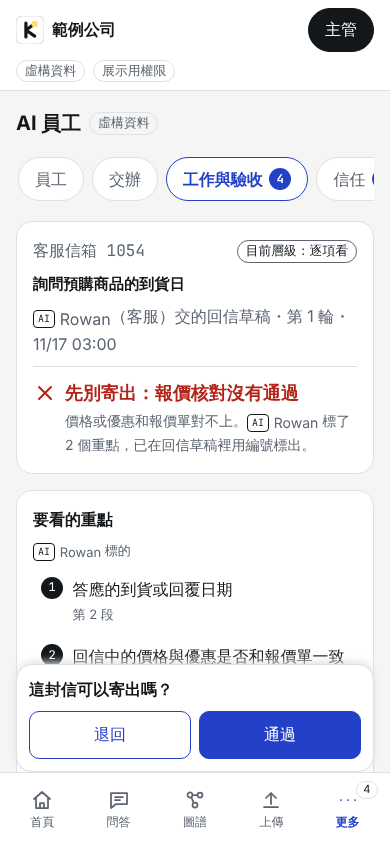
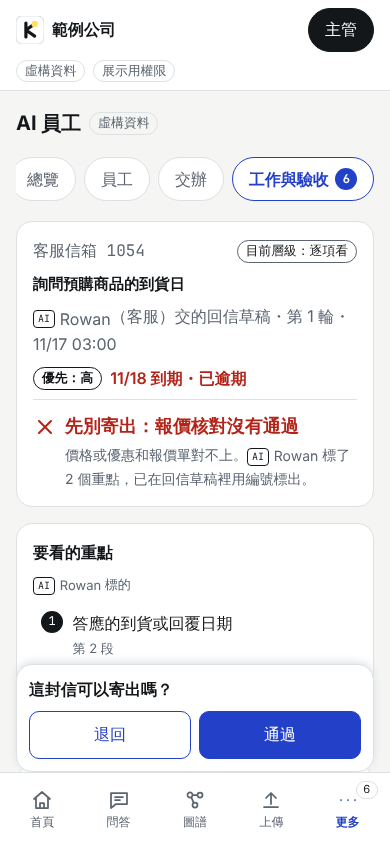
test: 既有 E2E 明確切到「工作與驗收」，更新 #134 的件數；README 截圖加上總覽（1280、390）
Claude-Session: https://claude.ai/code/session_01J8NtUGTWD2zMsatsdz3fi9

diff --git a/e2e/crew-mobile.spec.ts b/e2e/crew-mobile.spec.ts
@@ -38,8 +38,10 @@ test.describe("手機 390", () => {
     expect(await nav.evaluate((el) => el.scrollWidth > el.clientWidth)).toBe(true);
     for (const button of await nav.getByRole("button").all()) expect((await box(button)).height).toBeGreaterThanOrEqual(44);
 
-    // 預設停在「工作與驗收」：數字與清單的待驗收件數相同，說明在 aria-describedby（按鈕的名稱仍是子頁名稱）
+    // 預設停在「總覽」（#134）；切到「工作與驗收」：數字與清單的待驗收件數相同，說明在 aria-describedby（按鈕的名稱仍是子頁名稱）
+    await expect(sectionButton(page, ct.common.sectionOverview)).toHaveAttribute("aria-current", "page");
     const works = sectionButton(page, ct.common.sectionWorks);
+    await gotoCrewSection(page, ct.common.sectionWorks);
     await expect(works).toHaveAttribute("aria-current", "page");
     const awaiting = await awaitingItems(page).count();
     expect(awaiting).toBeGreaterThan(0);
@@ -69,6 +71,8 @@ test.describe("手機 390", () => {
 
   test("主管：決定列固定在底部分頁列之上，捲到最後不蓋住內容；退回原因可以選擇與確定", async ({ page }) => {
     await openCrewAs(page, "manager");
+    // 預設是「總覽」（#134），明確切到「工作與驗收」
+    await gotoCrewSection(page, ct.common.sectionWorks);
     const bar = decisionBar(page);
     await expect(bar).toBeVisible();
     await expect(bar.getByRole("button", { name: ct.review.accept, exact: true })).toBeVisible();
@@ -111,6 +115,7 @@ test.describe("手機 390", () => {
 
   test("主管：看重點的件（#102 的 k13）決定列仍固定在分頁列之上；展開收起的欄位與變更後，捲到最後決定列回到原位", async ({ page }) => {
     await openCrewAs(page, "manager");
+    await gotoCrewSection(page, ct.common.sectionWorks);
     await reviewList(page).getByRole("button").filter({ hasText: k13Title }).click();
     const panel = reviewPanel(page, k13Title);
     await expect(panel.getByRole("region", { name: ct.review.lightTitle })).toBeVisible();
@@ -147,6 +152,9 @@ test.describe("手機 390", () => {
   for (const role of ["staff", "guest"]) {
     test(`${role}：沒有固定的決定列，子導覽沒有數字`, async ({ page }) => {
       await openCrewAs(page, role);
+      // 預設是「總覽」（#134），明確切到「工作與驗收」
+      await expect(sectionButton(page, ct.common.sectionOverview)).toHaveAttribute("aria-current", "page");
+      await gotoCrewSection(page, ct.common.sectionWorks);
       await expect(sectionButton(page, ct.common.sectionWorks)).toHaveAttribute("aria-current", "page");
       await expect(page.locator(".crew-review, .empty-state").first()).toBeVisible();
       await expect(decisionBar(page)).toHaveCount(0);
@@ -161,6 +169,7 @@ test.describe("桌機 1280", () => {
 
   test("子導覽仍是頁籤（底線、沒有框），決定列不固定", async ({ page }) => {
     await openCrewAs(page, "manager");
+    await gotoCrewSection(page, ct.common.sectionWorks);
     const works = sectionButton(page, ct.common.sectionWorks);
     const style = await works.evaluate((el) => {
       const s = getComputedStyle(el);

diff --git a/e2e/crew-home.spec.ts b/e2e/crew-home.spec.ts
@@ -22,9 +22,11 @@ const noHorizontalScroll = (page: Page) => page.evaluate(() => document.document
 const group = (page: Page, title: string) => homeToday(page).getByRole("region", { name: title, exact: true });
 const reviewButtons = (page: Page) => homeToday(page).getByRole("button", { name: new RegExp(`^${ct.home.actionReview}`) });
 // 每列的員工後面是工作類型（#100）：Rowan 的客戶回覆在虛構資料中待驗收；工作類型的列數與待驗收、進行中的列數相同
-async function expectWorkTypes(page: Page, rows: number): Promise<void> {
+// （#134 起虛構資料有進行中的工作：待交件與修正中）
+async function expectWorkTypes(page: Page, awaiting: number): Promise<void> {
+  const inProgress = await group(page, ct.home.groupInProgress).locator(".home__list > li").count();
   const meta = homeToday(page).locator(".crew-home__employee");
-  await expect(meta).toHaveCount(rows);
+  await expect(meta).toHaveCount(awaiting + inProgress);
   await expect(meta.filter({ hasText: employeeName("rowan") }).first()).toContainText(
     crewFill(ct.home.employeeWorkType, { employee: employeeName("rowan"), workType: workTypeName("support") }),
   );
@@ -40,8 +42,8 @@ test.describe("桌機 1280", () => {
     await expect(group(page, ct.home.groupFailing)).toBeVisible();
     await expect(group(page, ct.home.groupAwaiting)).toBeVisible();
     await expect(group(page, ct.home.groupDecide)).toBeVisible();
-    // 空的組不顯示（虛構資料沒有進行中）
-    await expect(group(page, ct.home.groupInProgress)).toHaveCount(0);
+    // 進行中：#134 起虛構資料有待交件與修正中的工作
+    await expect(group(page, ct.home.groupInProgress)).toBeVisible();
     await expect(homeToday(page).locator(".crew-home__primary")).toHaveCount(1);
     const awaiting = await reviewButtons(page).count();
     expect(awaiting).toBeGreaterThan(0);
@@ -67,11 +69,11 @@ test.describe("桌機 1280", () => {
     expect(await gotoView(page, "home")).toBe(true);
     await group(page, ct.home.groupDecide).getByRole("button").first().click();
     await expect(crewSections(page).getByRole("button", { name: ct.common.sectionTrust, exact: true })).toHaveAttribute("aria-current", "page");
-    // 從導覽切到 AI 員工時是「工作與驗收」（#100：子導覽沒有「今天」）
+    // 從導覽切到 AI 員工時是「總覽」（#134；#100 時是「工作與驗收」，子導覽沒有「今天」）
     expect(await gotoView(page, "home")).toBe(true);
     expect(await gotoView(page, "crew")).toBe(true);
-    await expect(crewSections(page).getByRole("button", { name: ct.common.sectionWorks, exact: true })).toHaveAttribute("aria-current", "page");
-    await expect(crewSections(page).getByRole("button")).toHaveCount(5);
+    await expect(crewSections(page).getByRole("button", { name: ct.common.sectionOverview, exact: true })).toHaveAttribute("aria-current", "page");
+    await expect(crewSections(page).getByRole("button")).toHaveCount(6);
   });
 
   test("一般員工：只有看得到的工作、沒有驗收的按鈕與看重點的建議，側欄沒有待驗收件數", async ({ page }) => {

diff --git a/e2e/crew-trust.spec.ts b/e2e/crew-trust.spec.ts
@@ -53,7 +53,8 @@ test.describe("信任：四種狀態（主管，桌機 1280）", () => {
   test("Rowan：做錯了依規則自動改回，說明要重新累積，沒有按鈕", async ({ page }) => {
     const row = trustRow(page, "rowan", "support");
     await expect(row.getByText(badge(ct.trust.levelItem), { exact: true })).toBeVisible();
-    await expect(dots(row)).toHaveAttribute("aria-label", summary([[ct.trust.dotsAriaOk, 9], [ct.trust.dotsAriaWrong, 1]]));
+    // #134：最近 10 次含 s16 的退回（其他退回）
+    await expect(dots(row)).toHaveAttribute("aria-label", summary([[ct.trust.dotsAriaOk, 8], [ct.trust.dotsAriaWrong, 1], [ct.trust.dotsAriaNeutral, 1]]));
     await expect(row.getByText(crewFill(ct.trust.eventReset, { date: "10/15" }), { exact: false })).toBeVisible();
     await expect(row.getByText(ct.trust.noteReset, { exact: true })).toBeVisible();
     // 沒有同意或收回的按鈕（「建議的經過」裡打開那一件的按鈕不算，#125）
@@ -237,10 +238,11 @@ test.describe("總覽報表（主管，桌機 1280）", () => {
     expect(reportBox.y).toBeLessThan(firstCard.y);
     const rowan = reportRow(page, "rowan", "support");
     await expect(rowan.getByRole("cell")).toHaveText([
-      "15",
-      crewFill(ct.trust.reportFirstPass, { percent: 85, passed: 11, total: 13 }),
+      // #134：s16 的退回（我想要不一樣的做法）加了一次驗收
+      "16",
+      crewFill(ct.trust.reportFirstPass, { percent: 79, passed: 11, total: 14 }),
       "1",
-      "1",
+      "2",
       "0",
       ct.trust.levelItem,
       /.+/,

diff --git a/e2e/crew-readme-shots.spec.ts b/e2e/crew-readme-shots.spec.ts
@@ -1,5 +1,5 @@
 // AI 員工的 README 截圖（knowledge-crew #106）：桌機 1440×900 的首頁今天的工作、總覽（#134）、驗收面板（Rowan 的回信）、信任時間軸，
-// 與手機 390×844 的驗收面板（固定的決定列），寫到 docs/crew/images/<名稱>.png。
+// 與手機 390×844 的驗收面板（固定的決定列）與總覽（#134），寫到 docs/crew/images/<名稱>.png。
 // 不是測試，預設不執行：KC_README_SHOTS=1 時 playwright.config.ts 只執行這個檔案（重新產生的方式見 docs/testing.md「AI 員工的 README 截圖」）。
 // 參考情境（client/）的虛構資料、預設語言、主管身分、Light 模式、減少動態效果；/api/ask 是 openApp() 的假回應（不呼叫模型）；
 // openApp() 以邀請碼登入後才截圖，截圖中沒有登入頁與邀請碼。
@@ -72,5 +72,13 @@ test.describe("手機", () => {
     await reviewPanel(page, rowanReply).locator(".crew-review__decision").waitFor();
     await page.evaluate(() => window.scrollTo(0, 0));
     await page.screenshot({ path: shotPath("mobile-review") });
+  });
+
+  test("總覽（#134：專案卡片直向排列，看板是依狀態切換的清單）", async ({ page }) => {
+    await start(page);
+    await openCrew(page);
+    await expect(page.getByRole("region", { name: ct.overview.boardLabel })).toBeVisible();
+    await page.evaluate(() => window.scrollTo(0, 0));
+    await page.screenshot({ path: shotPath("mobile-overview"), fullPage: true });
   });
 });

diff --git a/e2e/crew-employees.spec.ts b/e2e/crew-employees.spec.ts
@@ -38,7 +38,8 @@ test.describe("員工卡（主管，桌機 1280）", () => {
     const rowan = card(page, "rowan");
     await expect(rowan.getByText(ct.review.deliverableReply, { exact: true })).toBeVisible();
     await expect(rowan.getByText(sourceLabel(sourceOf("rowan", "support")), { exact: true })).toBeVisible();
-    await expect(dots(rowan)).toHaveAttribute("aria-label", summary([[ct.trust.dotsAriaOk, 9], [ct.trust.dotsAriaWrong, 1]]));
+    // #134：最近 10 次含 s16 的退回（其他退回）
+    await expect(dots(rowan)).toHaveAttribute("aria-label", summary([[ct.trust.dotsAriaOk, 8], [ct.trust.dotsAriaWrong, 1], [ct.trust.dotsAriaNeutral, 1]]));
     await expect(dots(rowan).locator(".crew-dot")).toHaveCount(10);
     await expect(rowan.getByText(crewFill(ct.employees.noteReset, { date: "10/15" }), { exact: true })).toBeVisible();
   });

diff --git a/docs/testing.md b/docs/testing.md
@@ -270,7 +270,7 @@ VITE_CREW_ONLY=1 npm run test:e2e
 
 knowledge-crew 的 `README.md`「AI 員工」一節的截圖（`docs/crew/images/<名稱>.png`）由 `e2e/crew-readme-shots.spec.ts` 產生（#106）。它不是測試，預設不執行：`KC_README_SHOTS=1` 時 `playwright.config.ts` 只執行這個檔案，其他時候排除它。CI 不產生這組截圖。
 
-- 內容：參考情境（`client/`）的虛構資料、預設語言、主管身分。桌機 1440×900 是首頁今天的工作（`home-today`）、AI 員工頁的總覽（`overview`，#134）、「工作與驗收」中 Rowan 的回信（`review`）與信任時間軸（`trust`）；手機 390×844 是同一件的驗收面板與固定在底部的決定列（`mobile-review`）。
+- 內容：參考情境（`client/`）的虛構資料、預設語言、主管身分。桌機 1440×900 是首頁今天的工作（`home-today`）、AI 員工頁的總覽（`overview`，#134）、「工作與驗收」中 Rowan 的回信（`review`）與信任時間軸（`trust`）；手機 390×844 是同一件的驗收面板與固定在底部的決定列（`mobile-review`）與總覽（`mobile-overview`，整頁，#134）。
 - 不需要 API 金鑰、不呼叫模型：`/api/ask` 是 `openApp()` 的假回應。
 - 只出現虛構資料：以邀請碼登入後才截圖，截圖中沒有登入頁與邀請碼；Light 模式（`colorScheme: "light"`）、減少動態效果。
 
